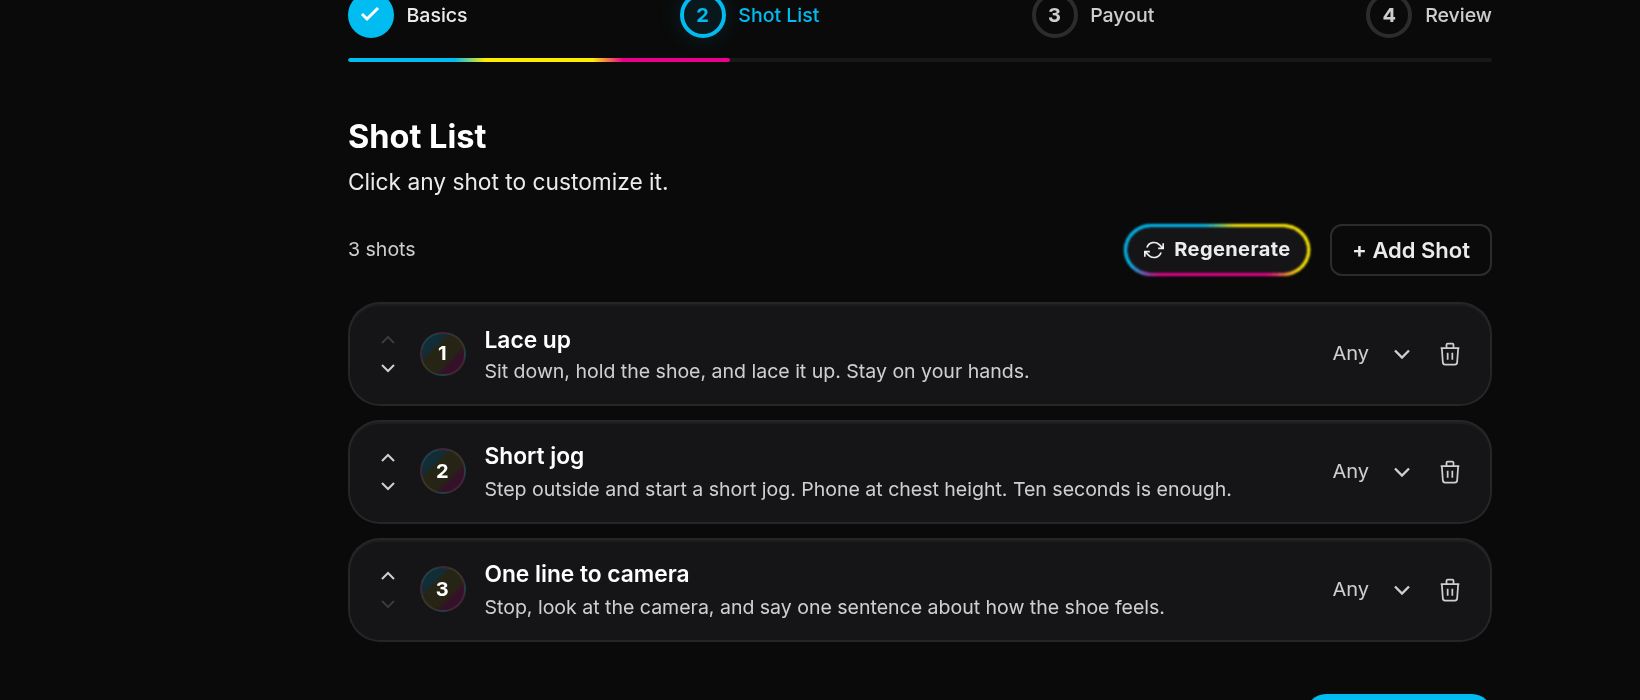
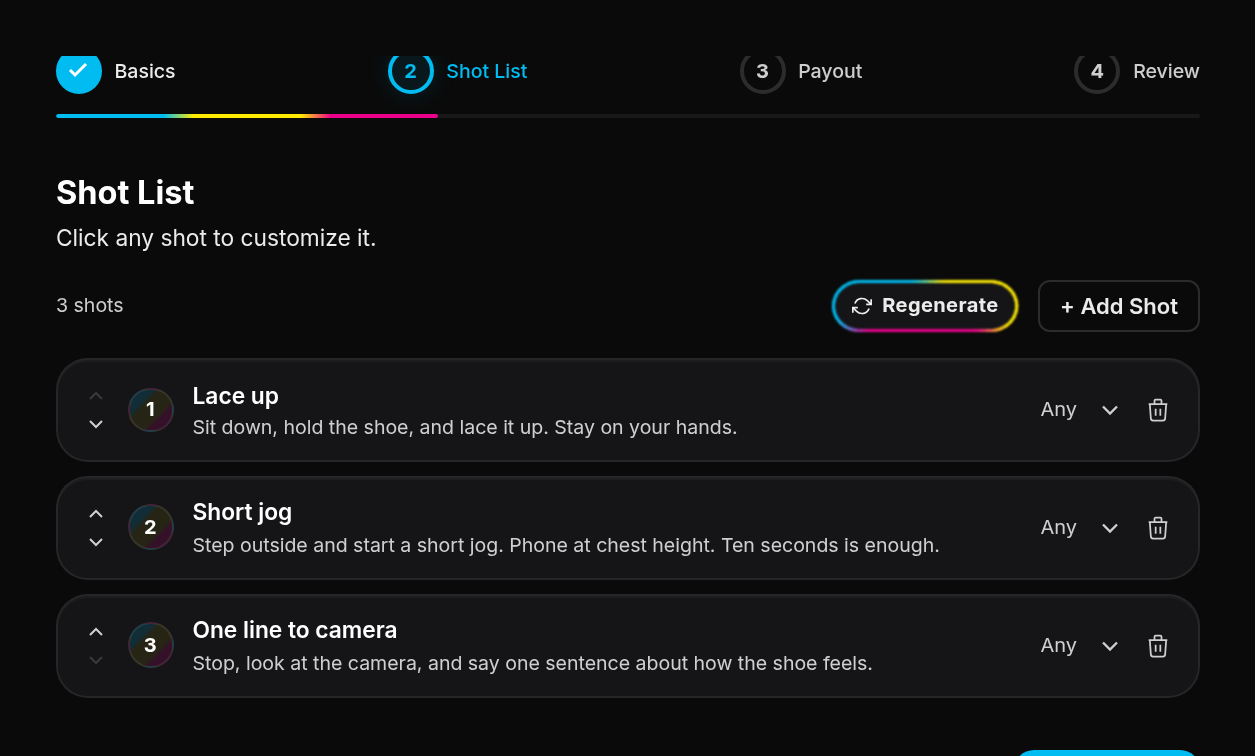
Show the full shot-list still without a cover crop
Replace img-2 with a 1255x756 lossless VP8L still that already includes the three-shot wizard plus dark chrome, and let the wide figure contain the image instead of clipping it.

diff --git a/site/src/styles/blog.css b/site/src/styles/blog.css
@@ -245,13 +245,12 @@ html { scroll-padding-top: var(--nav-h); }
   width: 100%;
   max-width: none;
   height: auto;
-  /* UI is x 348–1491 of 1640. 56px of app chrome so the 16px radius does not clip Basics / Add Shot / Review. */
-  aspect-ratio: 1256 / 700;
+  aspect-ratio: auto;
   margin: 0;
   border-radius: 16px;
-  object-fit: cover;
-  object-position: 76.04% center;
-  background: none;
+  object-fit: contain;
+  object-position: center;
+  background: #0a0a0a;
 }
 .post-figure--wide figcaption {
   margin: 0.7em 0 0;
